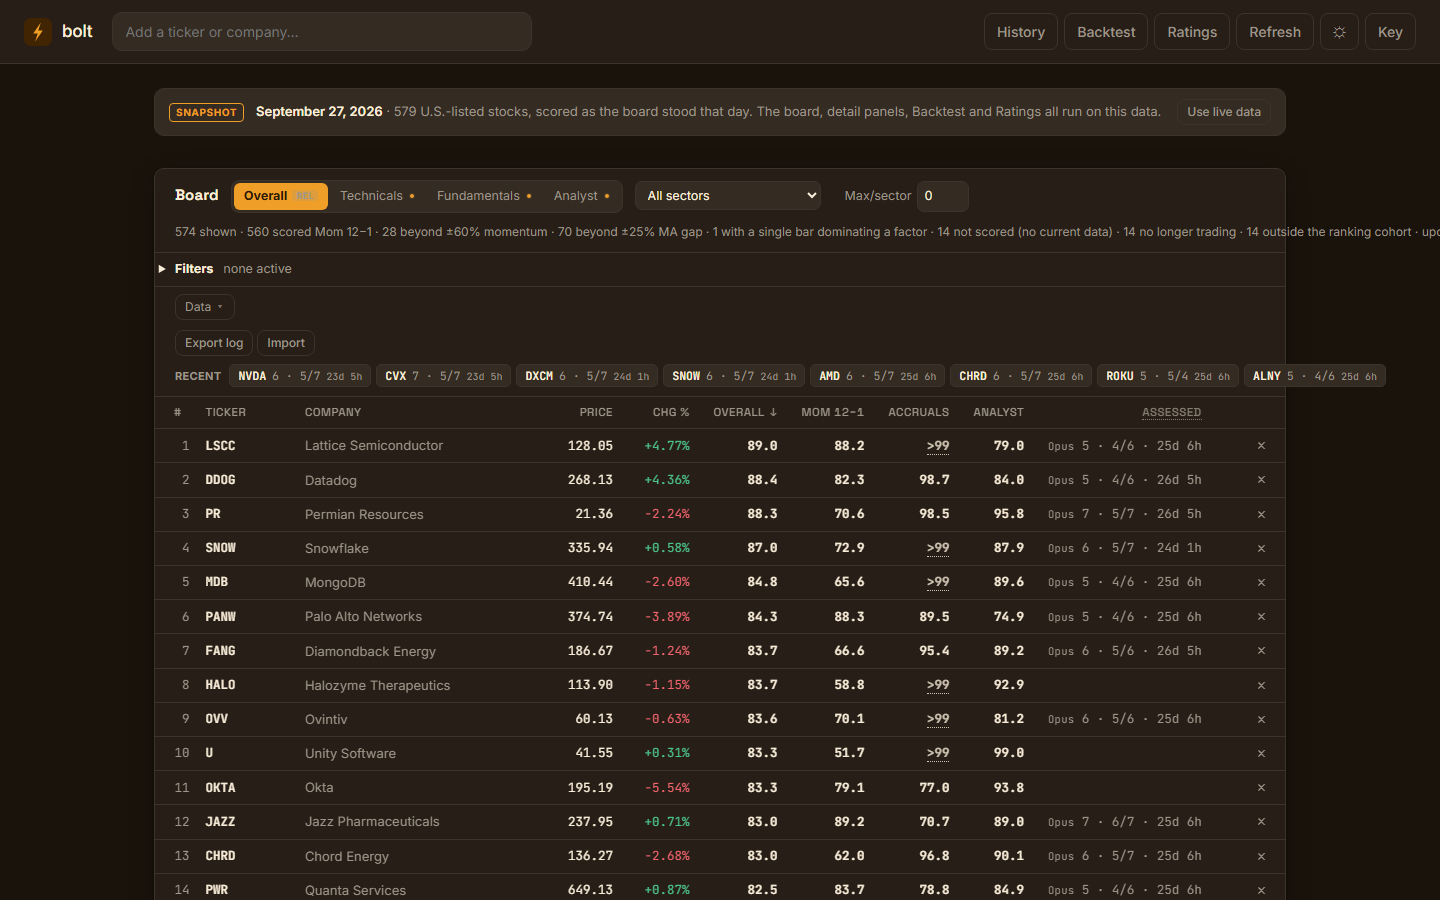
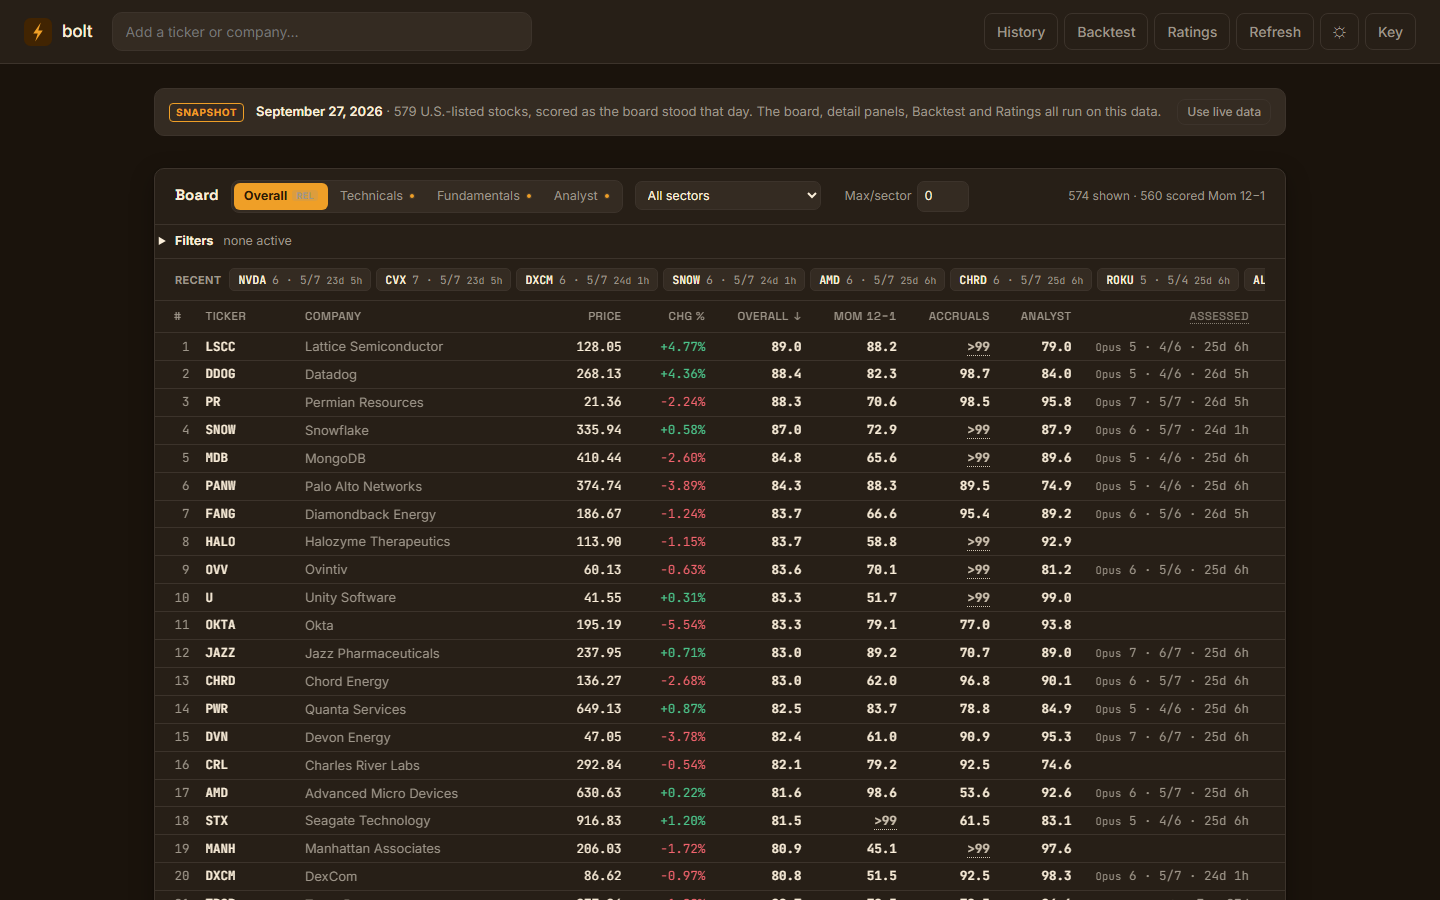
Clean up snapshot view and screenshot

diff --git a/styles.css b/styles.css
@@ -350,13 +350,19 @@ main {
 
 .card-head h2 { margin: 0; font-size: 14px; font-weight: 650; }
 
-/* `flex-shrink: 0` and no wrapping. With neither, a head carrying a lot of
-   controls — the backtest's, most of all — squeezed this line into a column one
-   word wide running down the side of the card. It wraps to its own row now
-   instead, which is what the flex-wrap above is for. */
+/* `flex-shrink: 0`. Without it, a head carrying a lot of controls — the
+   backtest's, most of all — squeezed this line into a column one word wide
+   running down the side of the card. It moves to its own row instead, which is
+   what the flex-wrap above is for.
+
+   It used to be `nowrap` too, which ran a long line (the board's status line)
+   off the right edge once it was alone on its row. `max-width: 100%` caps it
+   at the row, and the text wraps inside that. It never shrinks beside the
+   controls, because shrink is still off: too long to sit beside them, it takes
+   a row of its own first. */
 .card-head .muted {
   margin: 0 0 0 auto; font-size: 12px;
-  white-space: nowrap; flex-shrink: 0;
+  flex-shrink: 0; max-width: 100%;
 }
 
 .select {
@@ -575,7 +581,7 @@ th.col-failed, td.col-failed { opacity: .55; }
    sized for one — a button that reads "Assess / top…" looks like a rendering
    fault rather than a full toolbar. Wrapping moves the overflow to a second
    line and leaves every label intact. */
-.assess-controls { display: flex; flex-wrap: wrap; align-items: center; gap: 8px; row-gap: 6px; }
+.assess-controls { display: flex; flex-wrap: wrap; align-items: center; gap: 8px; row-gap: 6px; min-width: 0; }
 .assess-model-label {
   color: var(--text-muted); font-size: 11px; font-weight: 650;
   letter-spacing: .03em; text-transform: uppercase;
@@ -1329,8 +1335,11 @@ thead .col-active { color: var(--accent); font-weight: 700; }
    Takes the full width of the toolbar's wrapped row: the chips are the answer
    to "which", and truncating them to fit beside the controls would leave the
    question half answered. */
+/* `min-width: 0` here and on the chip strips: a flex item is otherwise never
+   narrower than its content, so the strip ran past the card's edge instead of
+   scrolling. */
 .assess-queue {
-  flex-basis: 100%;
+  flex-basis: 100%; min-width: 0;
   display: flex; align-items: center; gap: 8px;
   padding-top: 2px;
 }
@@ -1342,7 +1351,7 @@ thead .col-active { color: var(--accent); font-weight: 700; }
    itself off screen; one scrolling row keeps the toolbar a fixed height however
    long the queue gets. */
 .assess-queue-chips {
-  display: flex; align-items: center; gap: 5px;
+  display: flex; align-items: center; gap: 5px; min-width: 0;
   overflow-x: auto; padding-bottom: 2px;
   scrollbar-width: thin;
 }
@@ -1387,7 +1396,7 @@ thead .col-active { color: var(--accent); font-weight: 700; }
    The way back to a brief. Same shape as the queue bar so the two read as one
    strip of state, and scrolling for the same reason. */
 .assess-recent-chips {
-  display: flex; align-items: center; gap: 5px;
+  display: flex; align-items: center; gap: 5px; min-width: 0;
   overflow-x: auto; padding-bottom: 2px;
   scrollbar-width: thin;
 }
@@ -1628,6 +1637,13 @@ thead .col-active { color: var(--accent); font-weight: 700; }
    data-server="static" on <html>; the proxied-only controls go with it. */
 html[data-server="static"] .proxy-only,
 html[data-server="static"] #board-body [data-assess] { display: none !important; }
+
+/* Snapshot mode. loadSnapshot() stamps data-snapshot on <html>. A visitor is
+   only looking, so nothing that edits the board or the log is offered: no Data
+   menu, no log export or import, no per-row remove. "Use live data" stays. */
+html[data-snapshot] #data-menu,
+html[data-snapshot] .assess-io,
+html[data-snapshot] .remove-col { display: none !important; }
 
 /* Snapshot label: one line above the board, stated rather than warned. Accent
    tag, not --warn — nothing is wrong, it is simply a dated copy. */

diff --git a/app.js b/app.js
@@ -9336,9 +9336,22 @@ function coverageNote(dom, rows) {
   return `${scored} scored ${plainLabel(head.label)}`;
 }
 
-function renderBoardMeta(count) {
-  const shown = count ?? sortedRows().length;
+/** The board's status line, as its parts. Split out of renderBoardMeta so the
+    snapshot's shorter line is testable.
+
+    A snapshot visitor is only looking, so they get what the board is: how many
+    names are shown and how many scored. The diagnostic counts below are for
+    whoever maintains the data, and stay on the local board. */
+function boardMetaParts(shown) {
   const parts = [`${shown} shown`];
+
+  if (state.snapshot) {
+    const dom = domain(state.boardMode);
+    if (dom.needsPrices) {
+      parts.push(coverageNote(dom, [...state.rows.values()].filter((r) => state.symbolSet.has(r.symbol))));
+    }
+    return parts;
+  }
 
   /* Whatever the section's own controls excluded, described by the control
      itself — so a domain that adds one gets its count reported for free. */
@@ -9398,7 +9411,11 @@ function renderBoardMeta(count) {
   }
   if (state.dropped) parts.push(`${state.dropped} dropped (no coverage)`);
   if (!state.loading && state.rows.size) parts.push(`updated ${new Date().toLocaleTimeString()}`);
-  $('#board-meta').textContent = parts.join(' · ');
+  return parts;
+}
+
+function renderBoardMeta(count) {
+  $('#board-meta').textContent = boardMetaParts(count ?? sortedRows().length).join(' · ');
 }
 
 // ── Rendering: board ────────────────────────────────────────────────
@@ -9746,7 +9763,7 @@ function assessedCellHTML(r) {
 }
 
 const removeCellHTML = (r) =>
-  `<td class="action-col"><button class="row-remove" data-remove="${esc(r.symbol)}" title="Remove ${esc(r.symbol)}" aria-label="Remove ${esc(r.symbol)}">&times;</button></td>`;
+  `<td class="action-col remove-col"><button class="row-remove" data-remove="${esc(r.symbol)}" title="Remove ${esc(r.symbol)}" aria-label="Remove ${esc(r.symbol)}">&times;</button></td>`;
 
 /** The bar-count cell, shared by every price-driven domain.
 
@@ -9873,7 +9890,7 @@ function renderBoardHead() {
       return `<th class="num assessed-col assessed-head" scope="col" title="${esc(col.title)}"><span class="saturated">${esc(col.label)}</span></th>`;
     }
     if (col.special === 'assess') return '<th class="action-col" scope="col"><span class="sr-only">Assess</span></th>';
-    if (col.special === 'remove') return '<th class="action-col" scope="col"><span class="sr-only">Remove</span></th>';
+    if (col.special === 'remove') return '<th class="action-col remove-col" scope="col"><span class="sr-only">Remove</span></th>';
 
     // A failed domain's column renders as a reading, not as a control: no
     // sortable class and no data-sort, so the click handler never sees it.
@@ -13229,6 +13246,10 @@ async function loadSnapshot() {
 
   installSnapshotClock(core.asOf);
   state.snapshot = { asOf: core.asOf, entries: core.entries, assessments: [] };
+  /* Read-only from here: the CSS hides everything that edits the board or the
+     log off this attribute. "Use live data" reloads the page, so it is never
+     taken off again. */
+  document.documentElement.dataset.snapshot = 'true';
   Object.assign(PLAN, core.plan || {});
   if (core.sec) state.sec = { at: core.sec.at || 0, cik: core.sec.cik || {}, gone: core.sec.gone || [] };
   state.symbols = core.watchlist.filter((s) => core.entries[s]);
